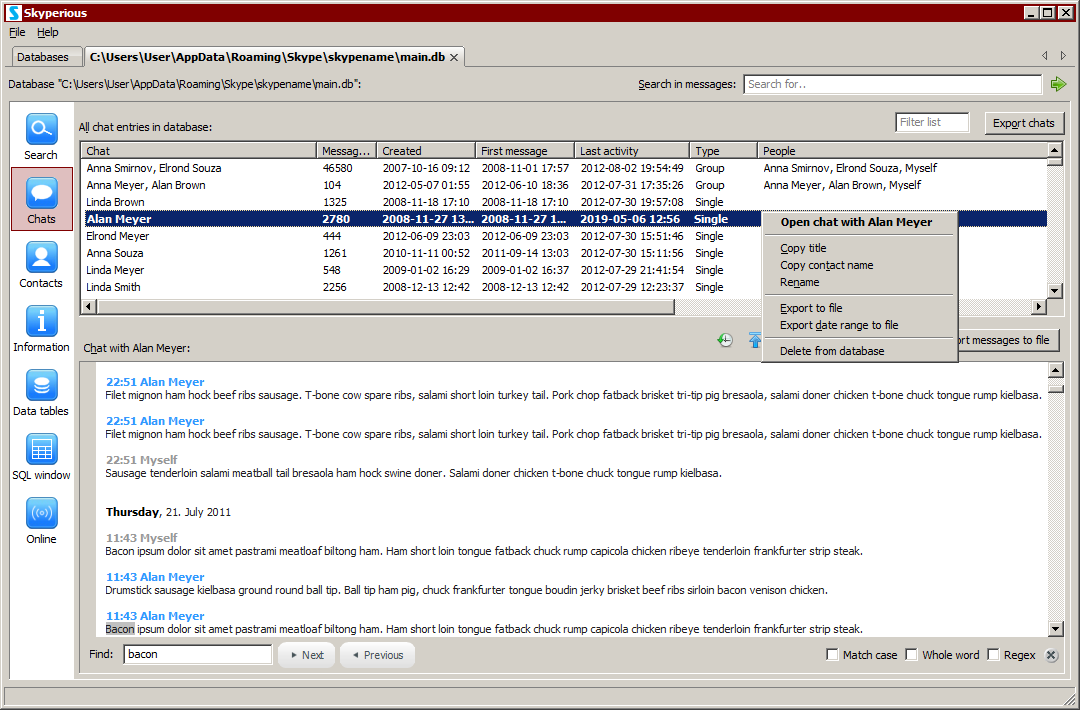
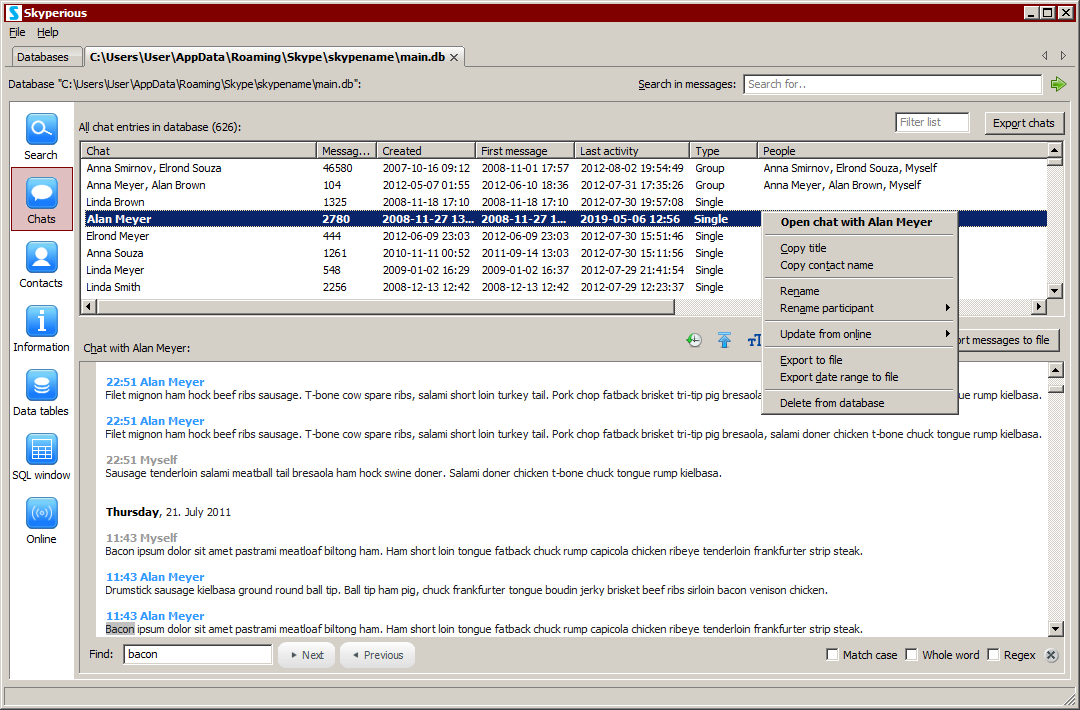
Update texts and links and screenshots to v5.4.

Changed region(s): [[0.6417, 0.3718, 0.8861, 0.5887], [0.1833, 0.1549, 0.2139, 0.1859]]

diff --git a/help.html b/help.html
@@ -45,16 +45,16 @@
           <a href="https://github.com/suurjaak/Skyperious">View the Project on GitHub <small>suurjaak/Skyperious</small></a>
         </p>
         <ul>
-          <li><a href="https://erki.lap.ee/downloads/Skyperious/skyperious_5.3_setup.exe">Download <strong>Setup</strong></a></li>
-          <li><a href="https://erki.lap.ee/downloads/Skyperious/skyperious_5.3_x64_setup.exe">Download <strong>64bit Setup</strong></a></li>
-          <li><a href="https://erki.lap.ee/downloads/Skyperious/skyperious_5.3-src.zip">Download <strong>Source</strong></a></li>
+          <li><a href="https://erki.lap.ee/downloads/Skyperious/skyperious_5.4_setup.exe">Download <strong>Setup</strong></a></li>
+          <li><a href="https://erki.lap.ee/downloads/Skyperious/skyperious_5.4_x64_setup.exe">Download <strong>64bit Setup</strong></a></li>
+          <li><a href="https://erki.lap.ee/downloads/Skyperious/skyperious_5.4-src.zip">Download <strong>Source</strong></a></li>
         </ul>
       </header>
       <section>
         <h2>Help Texts</h2>
 
         <a name="search"><h3>Search Syntax</h3></a>
-        Skyperious supports a Google-like syntax for searching messages:
+        Skyperious supports a simple query syntax for searching messages:
         <br /><br />
 
         <table>
@@ -143,8 +143,8 @@
         <tr>
           <td>
             <b>Search from specific time periods</b><br /><br />
-            <code>date:2008<br />date:2009-01<br />
-            date:2005-12-24..2007</code>
+            <code>date:2020<br />date:2022-01<br />
+            date:2020-12-24..2021</code>
             <br />
           </td>
           <td>
@@ -167,7 +167,7 @@
             <b>Exclude words or keywords</b><br /><br />
             <code>-notthisword<br />-"not this phrase"<br />
             -(none of these)<br/>-chat:notthischat<br/>-from:notthisauthor<br />
-            -date:2013</code>
+            -date:2021</code>
             <br />
           </td>
           <td>
@@ -204,21 +204,21 @@
             <code>flickr.com from:john from:jane chat:links</code>
             <br /><br />
           </li>
-          <li>search from John Smith up to 2011:<br />
-            <code>from:"john smith" date:..2011</code>
+          <li>search from John Smith up to 2021:<br />
+            <code>from:"john smith" date:..2021</code>
             <br /><br />
           </li>
           <li>search for either "John" and "my side" or "Stark" and "your side":<br />
             <code>(john "my side") OR (stark "your side")</code>
             <br /><br />
           </li>
-          <li>search for either "barbecue" or "grill" in 2012, except from June to August:<br />
-            <code>barbecue OR grill date:2012 -date:2012-06..2012-08</code>
+          <li>search for either "barbecue" or "grill" in 2022, except from June to August:<br />
+            <code>barbecue OR grill date:2022 -date:2022-06..2022-08</code>
             <br /><br />
           </li>
           <li>search for "TPS report" in chats named "office"
-              (but not named "backoffice") on the first day of the month in 2012:<br />
-            <code>"tps report" chat:office -chat:backoffice date:2012-*-1</code>
+              (but not named "backoffice") on the first day of the month in 2022:<br />
+            <code>"tps report" chat:office -chat:backoffice date:2022-*-1</code>
             <br /><br />
           </li>
         </ul>
@@ -252,13 +252,14 @@ Skyperious - Skype SQLite database viewer and merger.
 
 positional arguments:
   {export,search,sync,merge,diff,gui}
-    <a href="#export">export</a>              export Skype databases as HTML, text or spreadsheet
-    <a href="#search">search</a>              search Skype databases for messages or data
-    <a href="#sync"  >sync</a>                download new messages from Skype online service
-    <a href="#create">create</a>              create new Skype database, blank or from Skype source
-    <a href="#merge" >merge</a>               merge two or more Skype databases into a new database
-    <a href="#diff"  >diff</a>                compare chat history in two Skype databases
-    <a href="#gui"   >gui</a>                 launch Skyperious graphical program (default option)
+    <a href="#export"  >export</a>              export Skype databases as HTML, text or spreadsheet
+    <a href="#search"  >search</a>              search Skype databases for messages or data
+    <a href="#sync"    >sync</a>                download new messages from Skype online service
+    <a href="#contacts">contacts</a>            export Skype contacts as HTML, text or spreadsheet
+    <a href="#create"  >create</a>              create new Skype database, blank or from Skype source
+    <a href="#merge"   >merge</a>               merge two or more Skype databases into a new database
+    <a href="#diff"    >diff</a>                compare chat history in two Skype databases
+    <a href="#gui"     >gui</a>                 launch Skyperious graphical program (default option)
 
 optional arguments:
   -h, --help            show this help message and exit
@@ -271,7 +272,7 @@ optional arguments:
 <code>$ skyperious -h export</code>
 
 usage: skyperious export [-h] [-t {html,xlsx,csv,txt,xlsx_single}] [-o DIR]
-                         [-c CHAT [CHAT ...]] [-a AUTHOR [AUTHOR ...]]
+                         [-c CHAT [CHAT ...]] [-a NAME [NAME ...]]
                          [-s START_DATE] [-e END_DATE] [--media-folder]
                          [--ask-password] [--store-password] [--verbose]
                          FILE [FILE ...]
@@ -292,7 +293,7 @@ optional arguments:
   -o DIR, --output DIR  output directory if not current directory
   -c CHAT [CHAT ...], --chat CHAT [CHAT ...]
                         names of specific chats to export
-  -a AUTHOR [AUTHOR ...], --author AUTHOR [AUTHOR ...]
+  -a NAME [NAME ...], --author NAME [NAME ...]
                         names of specific authors whose chats to export
   -s START_DATE, --start START_DATE
                         date to export messages from, as YYYY-MM-DD
@@ -300,6 +301,8 @@ optional arguments:
                         date to export messages until, as YYYY-MM-DD
   --media-folder        save shared media into a subfolder in HTML export
                         instead of embedding into HTML
+  --media-cache         cache downloaded media in user directory,
+                        for faster repeated exports
   --ask-password        prompt for Skype password on HTML export to download
                         shared media
   --store-password      store entered password in configuration
@@ -320,7 +323,7 @@ Search Skype databases for messages, chat or contact information, or table
 data.
 
 positional arguments:
-  QUERY                 search query, with a Google-like syntax, for example:
+  QUERY                 search query, with a simple query syntax, for example:
                         "this OR that chat:links from:john". More on syntax at
                         https://suurjaak.github.io/Skyperious/help.html.
   FILE                  Skype database file(s) to search
@@ -345,7 +348,7 @@ optional arguments:
 
 usage: skyperious sync [-h] [-u USERNAME] [-p PASSWORD] [--store-password]
                        [--ask-password] [-c CHAT [CHAT ...]]
-                       [-a AUTHOR [AUTHOR ...]] [--verbose]
+                       [-a NAME [NAME ...]] [--verbose]
                        FILE [FILE ...]
 
 Synchronize Skype database via login to Skype online service.
@@ -374,13 +377,49 @@ optional arguments:
                         to sync
   -c CHAT [CHAT ...], --chat CHAT [CHAT ...]
                         names of specific chats to sync
-  -a AUTHOR [AUTHOR ...], --author AUTHOR [AUTHOR ...]
+  -a NAME [NAME ...], --author NAME [NAME ...]
                         names of specific authors whose chats to sync
   --verbose             print detailed progress messages to stderr
   --no-terminal         command-line output suitable for non-terminal display,
                         like piping to a file; also skips all user interaction
                         like asking for Skype username or password
   --config-file         path of configuration file to use
+</pre>
+
+
+<pre id="contacts">
+<code>$ skyperious -h contacts</code>
+
+usage: skyperious contacts [-h] [-t {html,xlsx,csv,txt}] [-o FILE]
+                           [-f TEXT [TEXT ...]] [-n NAME [NAME ...]]
+                           [-c CHAT [CHAT ...]] [--verbose] [--no-terminal]
+                           [--config-file CONFIG_FILE]
+                           FILE [FILE ...]
+
+Export contacts from a Skype database into file.
+
+positional arguments:
+  FILE                  Skype databases to process (supports * wildcards)
+
+optional arguments:
+  -h, --help            show this help message and exit
+  -t {html,xlsx,csv,txt}, --type {html,xlsx,csv,txt}
+                        export type: HTML files (default), Excel workbooks,
+                        CSV spreadsheets, text files
+  -o FILE, --output FILE
+                        output filename if not using auto-generated
+  -f TEXT [TEXT ...], --filter TEXT [TEXT ...]
+                        select contacts with given texts in any profile fields
+  -n NAME [NAME ...], --name NAME [NAME ...]
+                        names of specific contacts to select
+  -c CHAT [CHAT ...], --chat CHAT [CHAT ...]
+                        names of chats to select contacts by
+  --verbose             print detailed progress messages to stderr
+  --no-terminal         command-line output suitable for non-terminal display,
+                        like piping to a file; also skips all user interaction
+                        like asking for Skype username or password
+  --config-file CONFIG_FILE
+                        path of configuration file to use
 </pre>
 
 

diff --git a/changelog.html b/changelog.html
@@ -40,14 +40,48 @@
           <a href="https://github.com/suurjaak/Skyperious">View the Project on GitHub <small>suurjaak/Skyperious</small></a>
         </p>
         <ul>
-          <li><a href="https://erki.lap.ee/downloads/Skyperious/skyperious_5.3_setup.exe">Download <strong>Setup</strong></a></li>
-          <li><a href="https://erki.lap.ee/downloads/Skyperious/skyperious_5.3_x64_setup.exe">Download <strong>64bit Setup</strong></a></li>
-          <li><a href="https://erki.lap.ee/downloads/Skyperious/skyperious_5.3-src.zip">Download <strong>Source</strong></a></li>
+          <li><a href="https://erki.lap.ee/downloads/Skyperious/skyperious_5.4_setup.exe">Download <strong>Setup</strong></a></li>
+          <li><a href="https://erki.lap.ee/downloads/Skyperious/skyperious_5.4_x64_setup.exe">Download <strong>64bit Setup</strong></a></li>
+          <li><a href="https://erki.lap.ee/downloads/Skyperious/skyperious_5.4-src.zip">Download <strong>Source</strong></a></li>
         </ul>
       </header>
 
       <section>
         <h2>Changelog</h2>
+
+        <h4>v5.4, 2022-12-11:</h4>
+        <ul>
+          <li>add chat and contact counts to chats and contacts lists</li>
+          <li>add database account as one entry among contacts in contacts-tab</li>
+          <li>add links to contacts page in chat statistics</li>
+          <li>add chat image to chat statistics</li>
+          <li>add option to delete contact from database</li>
+          <li>add contacts TXT export</li>
+          <li>add contacts export to command-line interface</li>
+          <li>add configuration flag to cache shared media on disk (issue #112)</li>
+          <li>add configuration flag to auto-open exported files</li>
+          <li>add 1:1 and group chat message counts to contact details</li>
+          <li>add chat history text size selection to chat toolbar and context menu</li>
+          <li>add context menu popup to contact list right-click</li>
+          <li>add support for exporting SQL query results as INSERT statements</li>
+          <li>add support for F2 and Ctrl-F key shortcuts in chats and contacts lists</li>
+          <li>add "Export chats" button to contacts tab</li>
+          <li>add context menu popups to all HTML controls</li>
+          <li>expose chats and contacts lists context menu options under actions button</li>
+          <li>add options to sync specific items in chats and contacts lists from live</li>
+          <li>list all chats a contact is participant in, including empty chats</li>
+          <li>convert linefeeds in profile fields to line break tags in contacts HTML export</li>
+          <li>retain sort direction on changing sort column in contacts HTML export</li>
+          <li>export contact list by current applied filter</li>
+          <li>order file types in save dialog by label</li>
+          <li>skip trying to download old shared content guaranteed to be unavailable</li>
+          <li>fix parsing quoted media messages</li>
+          <li>fix chat count on initial and info page not matching count in chat list</li>
+          <li>fix error on syncing a contact no longer available online</li>
+          <li>fix escaping quotes in SQL export</li>
+          <li>fix compiled exe and pythonw auto-closing window immediately on --help</li>
+        </ul>
+        <br />
 
         <h4>v5.3, 2022-07-25:</h4>
         <ul>

diff --git a/faq.html b/faq.html
@@ -40,9 +40,9 @@
           <a href="https://github.com/suurjaak/Skyperious">View the Project on GitHub <small>suurjaak/Skyperious</small></a>
         </p>
         <ul>
-          <li><a href="https://erki.lap.ee/downloads/Skyperious/skyperious_5.3_setup.exe">Download <strong>Setup</strong></a></li>
-          <li><a href="https://erki.lap.ee/downloads/Skyperious/skyperious_5.3_x64_setup.exe">Download <strong>64bit Setup</strong></a></li>
-          <li><a href="https://erki.lap.ee/downloads/Skyperious/skyperious_5.3-src.zip">Download <strong>Source</strong></a></li>
+          <li><a href="https://erki.lap.ee/downloads/Skyperious/skyperious_5.4_setup.exe">Download <strong>Setup</strong></a></li>
+          <li><a href="https://erki.lap.ee/downloads/Skyperious/skyperious_5.4_x64_setup.exe">Download <strong>64bit Setup</strong></a></li>
+          <li><a href="https://erki.lap.ee/downloads/Skyperious/skyperious_5.4-src.zip">Download <strong>Source</strong></a></li>
         </ul>
       </header>
       <section>
@@ -51,6 +51,7 @@
         <ul>
           <li><a href="#obsolete">Does Skyperious work with modern Skype?</a></li>
           <li><a href="#login-fail">Why am I getting login failure from Skype online?</a></li>
+          <li><a href="#shared-media">Can I download my shared pictures and other files?</a></li>
           <li><a href="#automation">Can I automate backing up my Skype history?</a></li>
           <li><a href="#merge-different">Can I merge chat history from another operating system?</a></li>
           <li><a href="#osx">Can I use Skyperious on OS X?</a></li>
@@ -98,11 +99,33 @@
         <br />
 
 
+        <h3><a name="shared-media"></a>Can I download my shared pictures and other files?</h3>
+        <p>
+          Yes, to a degree. Skyperious can automatically download shared pictures
+          and audio/video messages for HTML export, saving them to a subfolder 
+          or embedding them in the HTML file. 
+          <br />
+          <br />
+          Note that audio/video messages are kept online for 30 days,
+          after that they will be unavailable for download.
+          If you wish to automatically retain full chat histories including shared media,
+          you should periodically synchronize your database from online,
+          and export the chats as HTML.
+          <br />
+          <br />
+          Content shared before 2017 April is no longer available,
+          that is when Microsoft moved Skype to the current client-server solution.
+
+        </p>
+        <br />
+
+
         <h3><a name="automation"></a>Can I automate backing up my Skype history?</h3>
         <p>
           Yes, Skyperious has a command-line interface (<a href="help.html#commandline">help.html#commandline</a>),
           which can be used to set up a periodic sync task to download new messages from Skype online service, 
-          e.g. using Task Scheduler on Windows or cron on Linux.
+          e.g. using Task Scheduler on Windows or cron on Linux. <br />
+          Skyperious can also export messages from the command-line in a variety of output formats.
         </p>
         <br />
 

diff --git a/index.html b/index.html
@@ -45,9 +45,9 @@
           <a href="https://github.com/suurjaak/Skyperious">View the Project on GitHub <small>suurjaak/Skyperious</small></a>
         </p>
         <ul>
-          <li><a href="https://erki.lap.ee/downloads/Skyperious/skyperious_5.3_setup.exe">Download <strong>Setup</strong></a></li>
-          <li><a href="https://erki.lap.ee/downloads/Skyperious/skyperious_5.3_x64_setup.exe">Download <strong>64bit Setup</strong></a></li>
-          <li><a href="https://erki.lap.ee/downloads/Skyperious/skyperious_5.3-src.zip">Download <strong>Source</strong></a></li>
+          <li><a href="https://erki.lap.ee/downloads/Skyperious/skyperious_5.4_setup.exe">Download <strong>Setup</strong></a></li>
+          <li><a href="https://erki.lap.ee/downloads/Skyperious/skyperious_5.4_x64_setup.exe">Download <strong>64bit Setup</strong></a></li>
+          <li><a href="https://erki.lap.ee/downloads/Skyperious/skyperious_5.4-src.zip">Download <strong>Source</strong></a></li>
         </ul>
       </header>
 
@@ -100,7 +100,7 @@ automatically, or you can select specific files or folders.
 Once added to the database list, a file can be opened for browsing, searching 
 and exporting, or compared with another database for merging.
 </p><p>
-Searching an opened database supports a simple Google-like query syntax. 
+Searching an opened database supports a simple query syntax. 
 You can use keywords to search among specific authors or chats only
 (<code>from:john</code>, <code>chat:links</code>), or from certain dates only 
 (<code>date:2012</code>, <code>date:2010..2013-06</code>). Search supports 

diff --git a/downloads.html b/downloads.html
@@ -40,9 +40,9 @@
           <a href="https://github.com/suurjaak/Skyperious">View the Project on GitHub <small>suurjaak/Skyperious</small></a>
         </p>
         <ul>
-          <li><a href="https://erki.lap.ee/downloads/Skyperious/skyperious_5.3_setup.exe">Download <strong>Setup</strong></a></li>
-          <li><a href="https://erki.lap.ee/downloads/Skyperious/skyperious_5.3_x64_setup.exe">Download <strong>64bit Setup</strong></a></li>
-          <li><a href="https://erki.lap.ee/downloads/Skyperious/skyperious_5.3-src.zip">Download <strong>Source</strong></a></li>
+          <li><a href="https://erki.lap.ee/downloads/Skyperious/skyperious_5.4_setup.exe">Download <strong>Setup</strong></a></li>
+          <li><a href="https://erki.lap.ee/downloads/Skyperious/skyperious_5.4_x64_setup.exe">Download <strong>64bit Setup</strong></a></li>
+          <li><a href="https://erki.lap.ee/downloads/Skyperious/skyperious_5.4-src.zip">Download <strong>Source</strong></a></li>
         </ul>
       </header>
       <section>

diff --git a/install.html b/install.html
@@ -51,9 +51,9 @@
           <a href="https://github.com/suurjaak/Skyperious">View the Project on GitHub <small>suurjaak/Skyperious</small></a>
         </p>
         <ul>
-          <li><a href="https://erki.lap.ee/downloads/Skyperious/skyperious_5.3_setup.exe">Download <strong>Setup</strong></a></li>
-          <li><a href="https://erki.lap.ee/downloads/Skyperious/skyperious_5.3_x64_setup.exe">Download <strong>64bit Setup</strong></a></li>
-          <li><a href="https://erki.lap.ee/downloads/Skyperious/skyperious_5.3-src.zip">Download <strong>Source</strong></a></li>
+          <li><a href="https://erki.lap.ee/downloads/Skyperious/skyperious_5.4_setup.exe">Download <strong>Setup</strong></a></li>
+          <li><a href="https://erki.lap.ee/downloads/Skyperious/skyperious_5.4_x64_setup.exe">Download <strong>64bit Setup</strong></a></li>
+          <li><a href="https://erki.lap.ee/downloads/Skyperious/skyperious_5.4-src.zip">Download <strong>Source</strong></a></li>
         </ul>
       </header>
       <section>

diff --git a/screens.html b/screens.html
@@ -35,9 +35,9 @@
           <a href="https://github.com/suurjaak/Skyperious">View the Project on GitHub <small>suurjaak/Skyperious</small></a>
         </p>
         <ul>
-          <li><a href="https://erki.lap.ee/downloads/Skyperious/skyperious_5.3_setup.exe">Download <strong>Setup</strong></a></li>
-          <li><a href="https://erki.lap.ee/downloads/Skyperious/skyperious_5.3_x64_setup.exe">Download <strong>64bit Setup</strong></a></li>
-          <li><a href="https://erki.lap.ee/downloads/Skyperious/skyperious_5.3-src.zip">Download <strong>Source</strong></a></li>
+          <li><a href="https://erki.lap.ee/downloads/Skyperious/skyperious_5.4_setup.exe">Download <strong>Setup</strong></a></li>
+          <li><a href="https://erki.lap.ee/downloads/Skyperious/skyperious_5.4_x64_setup.exe">Download <strong>64bit Setup</strong></a></li>
+          <li><a href="https://erki.lap.ee/downloads/Skyperious/skyperious_5.4-src.zip">Download <strong>Source</strong></a></li>
         </ul>
       </header>
       <section>

diff --git a/css/styles.css b/css/styles.css
@@ -3,6 +3,7 @@
 body {
   padding:50px;
   font:14px/1.5 Lato, "Helvetica Neue", Helvetica, Arial, sans-serif;
+  background: #FFF;
   color:#777;
   font-weight:300;
 }
